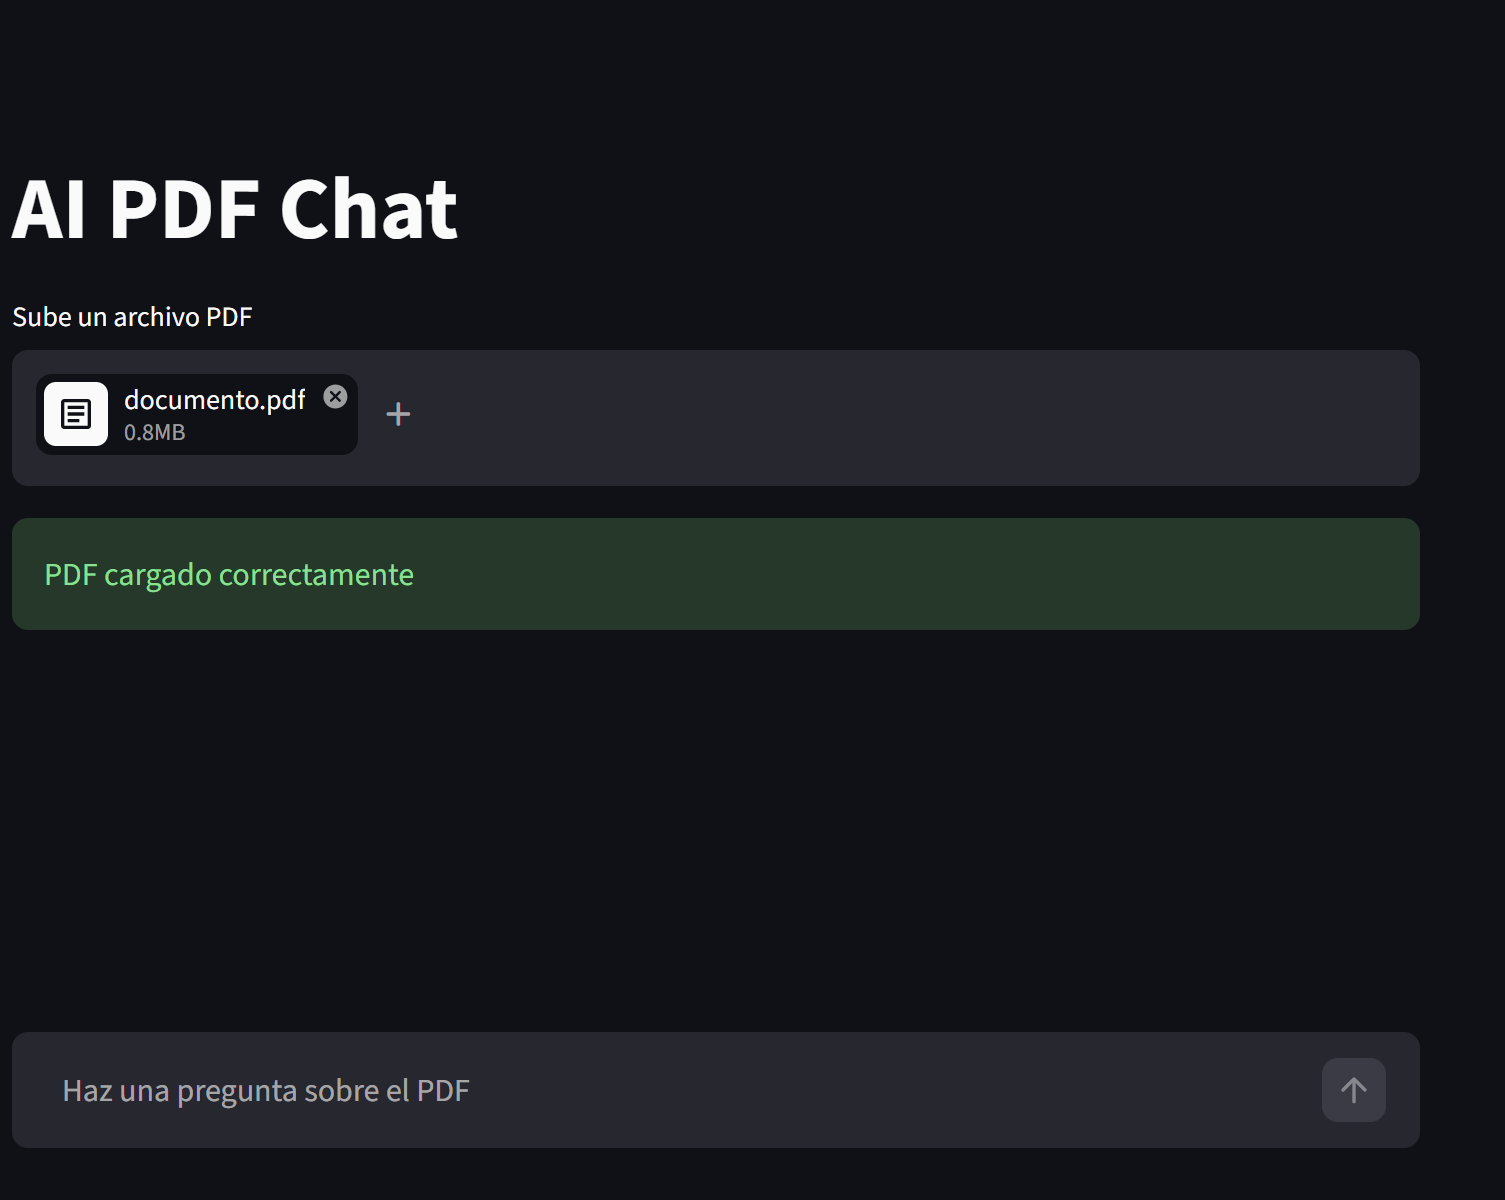
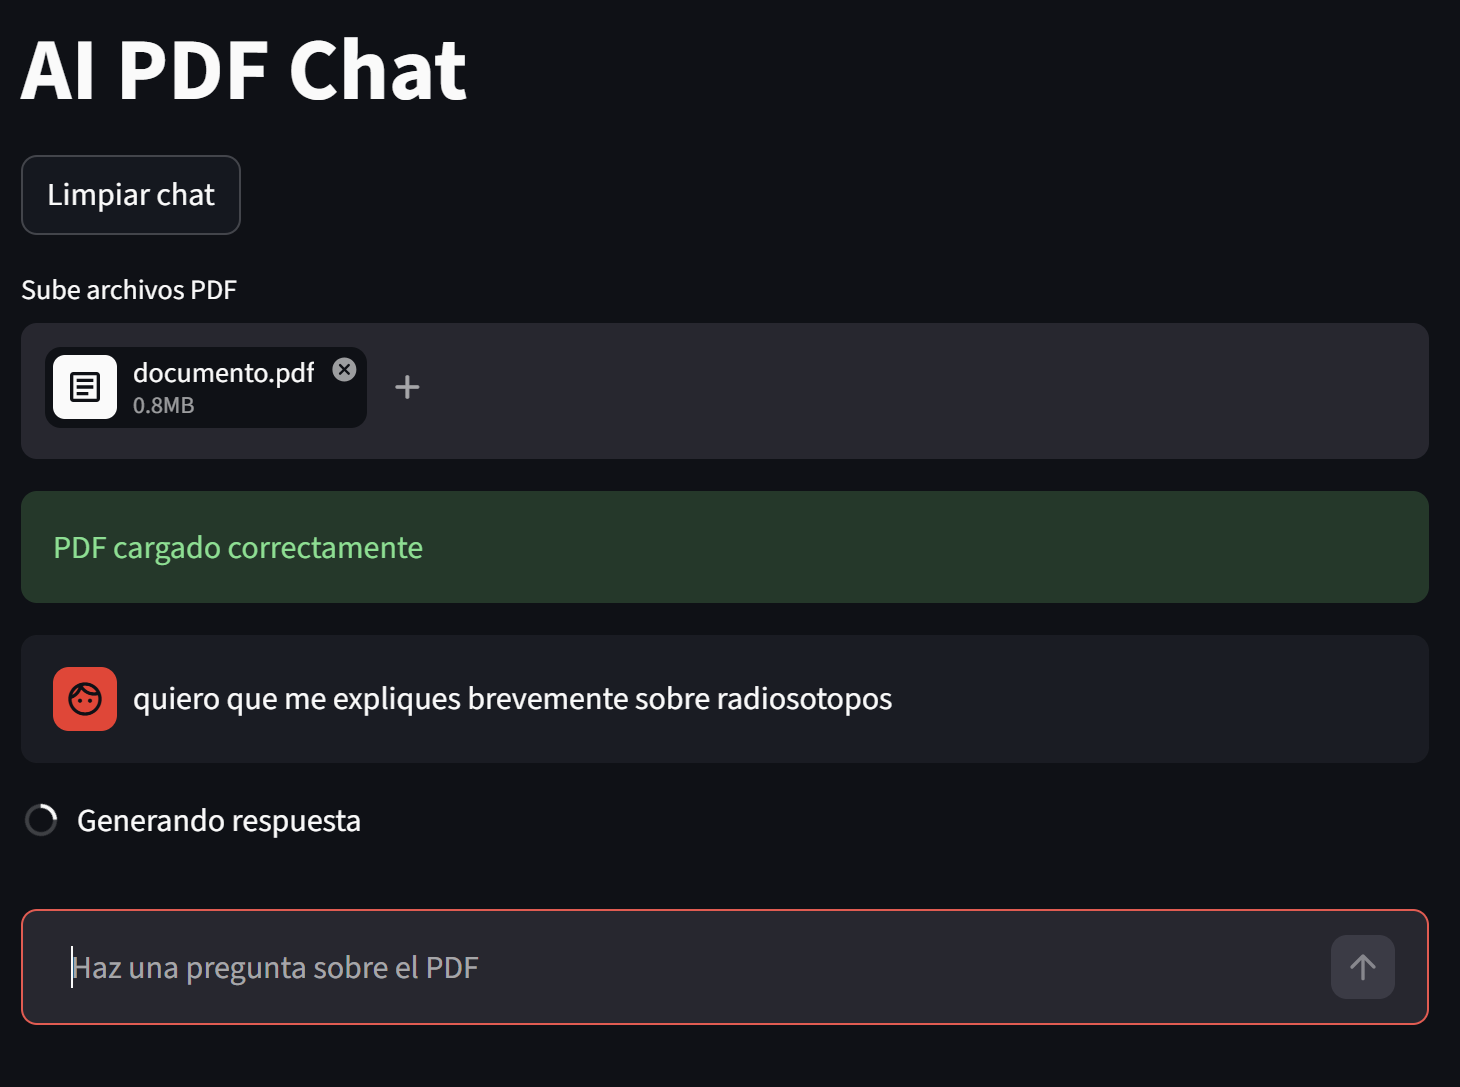
Improve README and update screenshots

diff --git a/README.md b/README.md
@@ -1,26 +1,29 @@
-# AI PDF Chat
+# AI PDF Chat RAG
 
-AI PDF Chat es una aplicación web construida con Python, Streamlit y OpenAI que permite subir documentos PDF y hacer preguntas sobre su contenido utilizando inteligencia artificial.
+AI PDF Chat es una aplicación web desarrollada con Python, Streamlit y OpenAI que permite subir uno o múltiples archivos PDF y hacer preguntas sobre su contenido utilizando inteligencia artificial.
 
-La aplicación utiliza embeddings, búsqueda semántica y Retrieval-Augmented Generation (RAG) para responder preguntas de forma contextual.
-
----
-
-# Features
-
-- Subida de archivos PDF
-- Extracción automática de texto
-- División inteligente en chunks
-- Embeddings con OpenAI
-- Base vectorial FAISS
-- Búsqueda semántica
-- Chat interactivo estilo ChatGPT
-- Memoria conversacional
-- Respuestas contextuales usando IA
+La aplicación utiliza embeddings, búsqueda semántica y Retrieval-Augmented Generation (RAG) para responder preguntas de forma contextual y conversacional.
 
 ---
 
-# Tecnologías utilizadas
+# 🚀 Features
+
+- 📄 Subida de uno o múltiples PDFs
+- ✂ Extracción automática de texto
+- 🧠 División inteligente en chunks
+- 🔎 Embeddings con OpenAI
+- 📚 Base vectorial FAISS
+- 💬 Chat interactivo estilo ChatGPT
+- 🧠 Memoria conversacional
+- ⚡ Respuestas contextuales usando RAG
+- 🧹 Botón para limpiar historial
+- 🛡 Manejo de errores
+- 📏 Límite de tamaño para PDFs
+- 🌐 Deployment online con Streamlit Cloud
+
+---
+
+# 🛠 Tecnologías utilizadas
 
 - Python
 - Streamlit
@@ -28,14 +31,21 @@ La aplicación utiliza embeddings, búsqueda semántica y Retrieval-Augmented Ge
 - LangChain
 - FAISS
 - PyPDF
+- RAG (Retrieval-Augmented Generation)
 
 ---
 
-# Screenshots
+# 📸 Screenshots
 
 ## Interfaz principal
 
 ![Interfaz principal](screenshots/app.png)
+
+---
+
+## Realizando preguntas
+
+![Preguntas](screenshots/question.png)
 
 ---
 
@@ -45,7 +55,7 @@ La aplicación utiliza embeddings, búsqueda semántica y Retrieval-Augmented Ge
 
 ---
 
-# Cómo ejecutar el proyecto
+# ⚙ Cómo ejecutar el proyecto
 
 ## 1. Clonar repositorio
 
@@ -91,9 +101,9 @@ pip install -r requirements.txt
 
 ## 6. Configurar API Key
 
-Configurar variable de entorno:
+Crear un archivo `.env`:
 
-```bash
+```env
 OPENAI_API_KEY=tu_api_key
 ```
 
@@ -107,7 +117,28 @@ streamlit run app.py
 
 ---
 
-# Autor
+# 🌐 Demo Online
+
+https://ai-pdf-chat-rag.streamlit.app/
+
+---
+
+# 📚 Qué aprendí
+
+Durante este proyecto trabajé con:
+
+- Arquitectura RAG
+- Embeddings
+- Vector Databases
+- Semantic Search
+- Prompt Engineering
+- Streamlit
+- Manejo de estado conversacional
+- Deployment de aplicaciones IA
+
+---
+
+# 👨💻 Autor
 
 Tomás Morales
 
